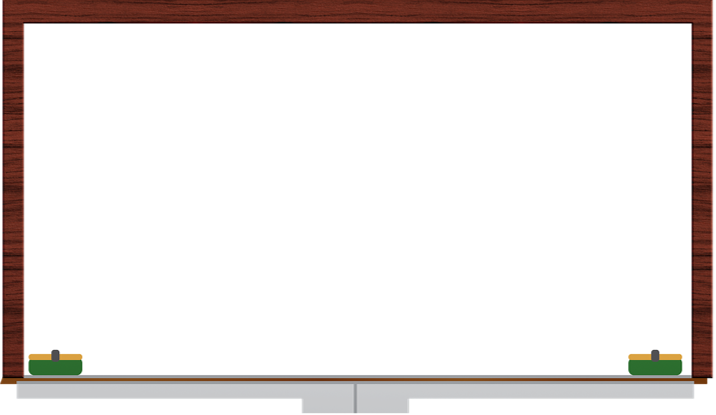
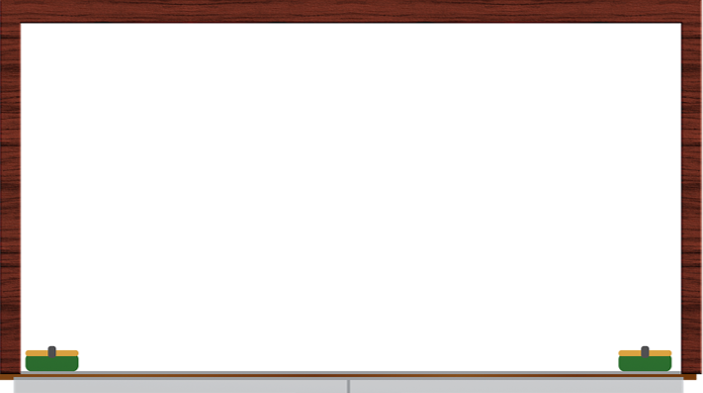
css 수정 및 메인 디자인 색깔채우기

Changed region(s): [[0.0, 0.0, 1.0, 1.0]]

diff --git a/hanalum/static/css/main.css b/hanalum/static/css/main.css
@@ -29,3 +29,86 @@ body {
     box-shadow: 0px 0px 3px 3px gray;
     width: 100px
 }
+
+.left {
+    float: left;
+    width: 49%;
+    display: inline-block;
+}
+.right {
+    float: right;
+    width: 49%;
+    display: inline-block;
+}
+.white-board img{
+    height: 210px;
+    width: 100%;
+    display: inline-block;
+    float: right;
+}
+
+.petition{
+    background: gray;
+    height: 180px;
+    width: 100%;
+    display: inline-block;
+}
+
+.free{
+    background: white;
+    height: 200px;
+    width: 100%;
+    display: inline-block;
+}
+
+.whefoo{
+    width: 100%;
+    display: inline-block;
+    margin-top: 4px;
+}
+
+.wheather{
+    background: white;
+    width: 49%;
+    height: 210px;
+    display: inline-block;
+}
+
+.schoolfood{
+    background: white;
+    width: 49%;
+    height: 210px;
+    display: inline-block;
+}
+.calender{
+    background: rgba(0,123,255,.5);
+    width: 100%;
+    height: 180px;
+    display: inline-block;
+}
+
+.youtube{
+    display: inline-block;
+    width: 100%;
+}
+.y1{
+    background: white;
+    border: 1px solid red;
+    width: 32%;
+    height: 150px;
+    display: inline-block;
+}
+.y2{
+    background: white;
+    border: 1px solid green;
+    width: 32%;
+    height: 150px;
+    display: inline-block;
+}
+.y3{
+    background: white;
+    border: 1px solid blue;
+    width: 32%;
+    height: 150px;
+    display: inline-block;
+}

diff --git a/hanalum/main/templates/main.html b/hanalum/main/templates/main.html
@@ -7,11 +7,36 @@
 {% endblock %}
 
 {% block content %}
+<div class="left" >
+    <div class="petition"> <!-- #청원 게시판 hot -->
+    </div>
+    <div class="free"> <!-- #자유 게시판 hot -->
+    </div>
+    <div class="calender"> <!-- #달력 -->
+    </div>
+</div>
 
-{% include 'main2.html' %}
+<div class="right">
+    <div class="white-board"> <!--#화이트 보드 사진 -->
+        {% include 'main2.html' %}
 
-<div class="widget-space">
-  <!-- 메인 화면에 띄울 내용 -->
+    </div>
+    <div class="whefoo">
+        <div class="schoolfood"> <!--급식-->
+
+        </div>
+        <div class="wheather"> <!--날씨-->
+
+        </div>
+    </div>
+    <div class="youtube"> <!--유튜브-->
+        <div class="y1">
+        </div>
+        <div class="y2">
+        </div>
+        <div class="y3">
+        </div>
+    </div>
 </div>
 
 

diff --git a/hanalum/hanalum/urls.py b/hanalum/hanalum/urls.py
@@ -51,12 +51,8 @@ urlpatterns = [
 
     path('memberdelete/', member.views.memberdelete, name='memberdelete'),
 
-<<<<<<< HEAD
-    path('board/<str:board_id>', board.views.board, name='board'),
-=======
     path('board/<str:board_id>/', board.views.board, name='board'),
     path('board/<str:board_id>/<int:page>/', board.views.board, name='board'),
->>>>>>> e2b794d03a7ff71096d960a4535bdce0ac42c82c
 
     path('calendar/', widget.views.calendar, name='widget'),
     path('cafeteria/', widget.views.cafeteria, name='widget'),
